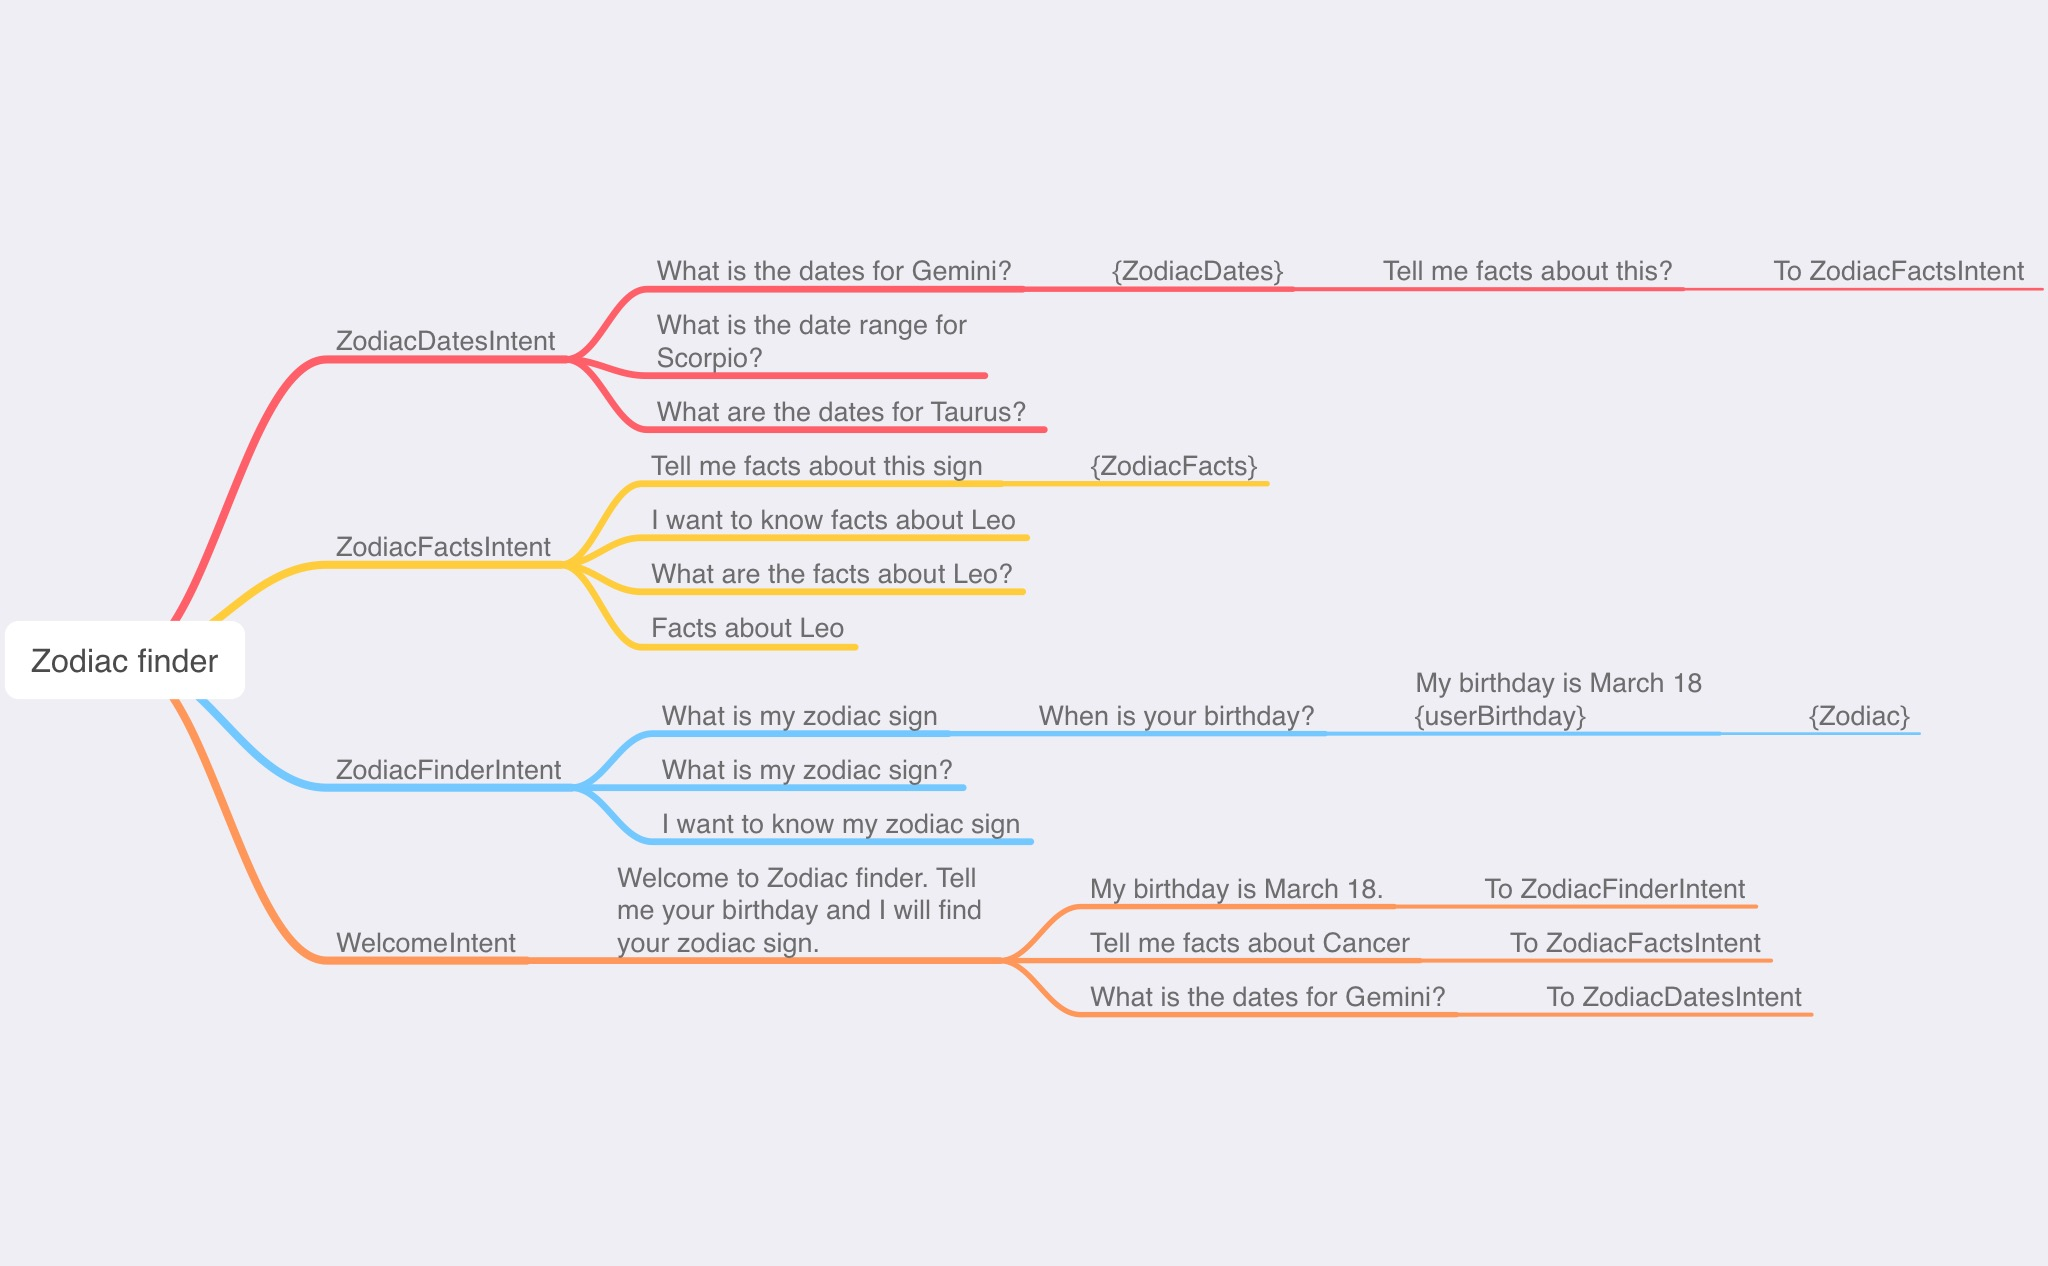
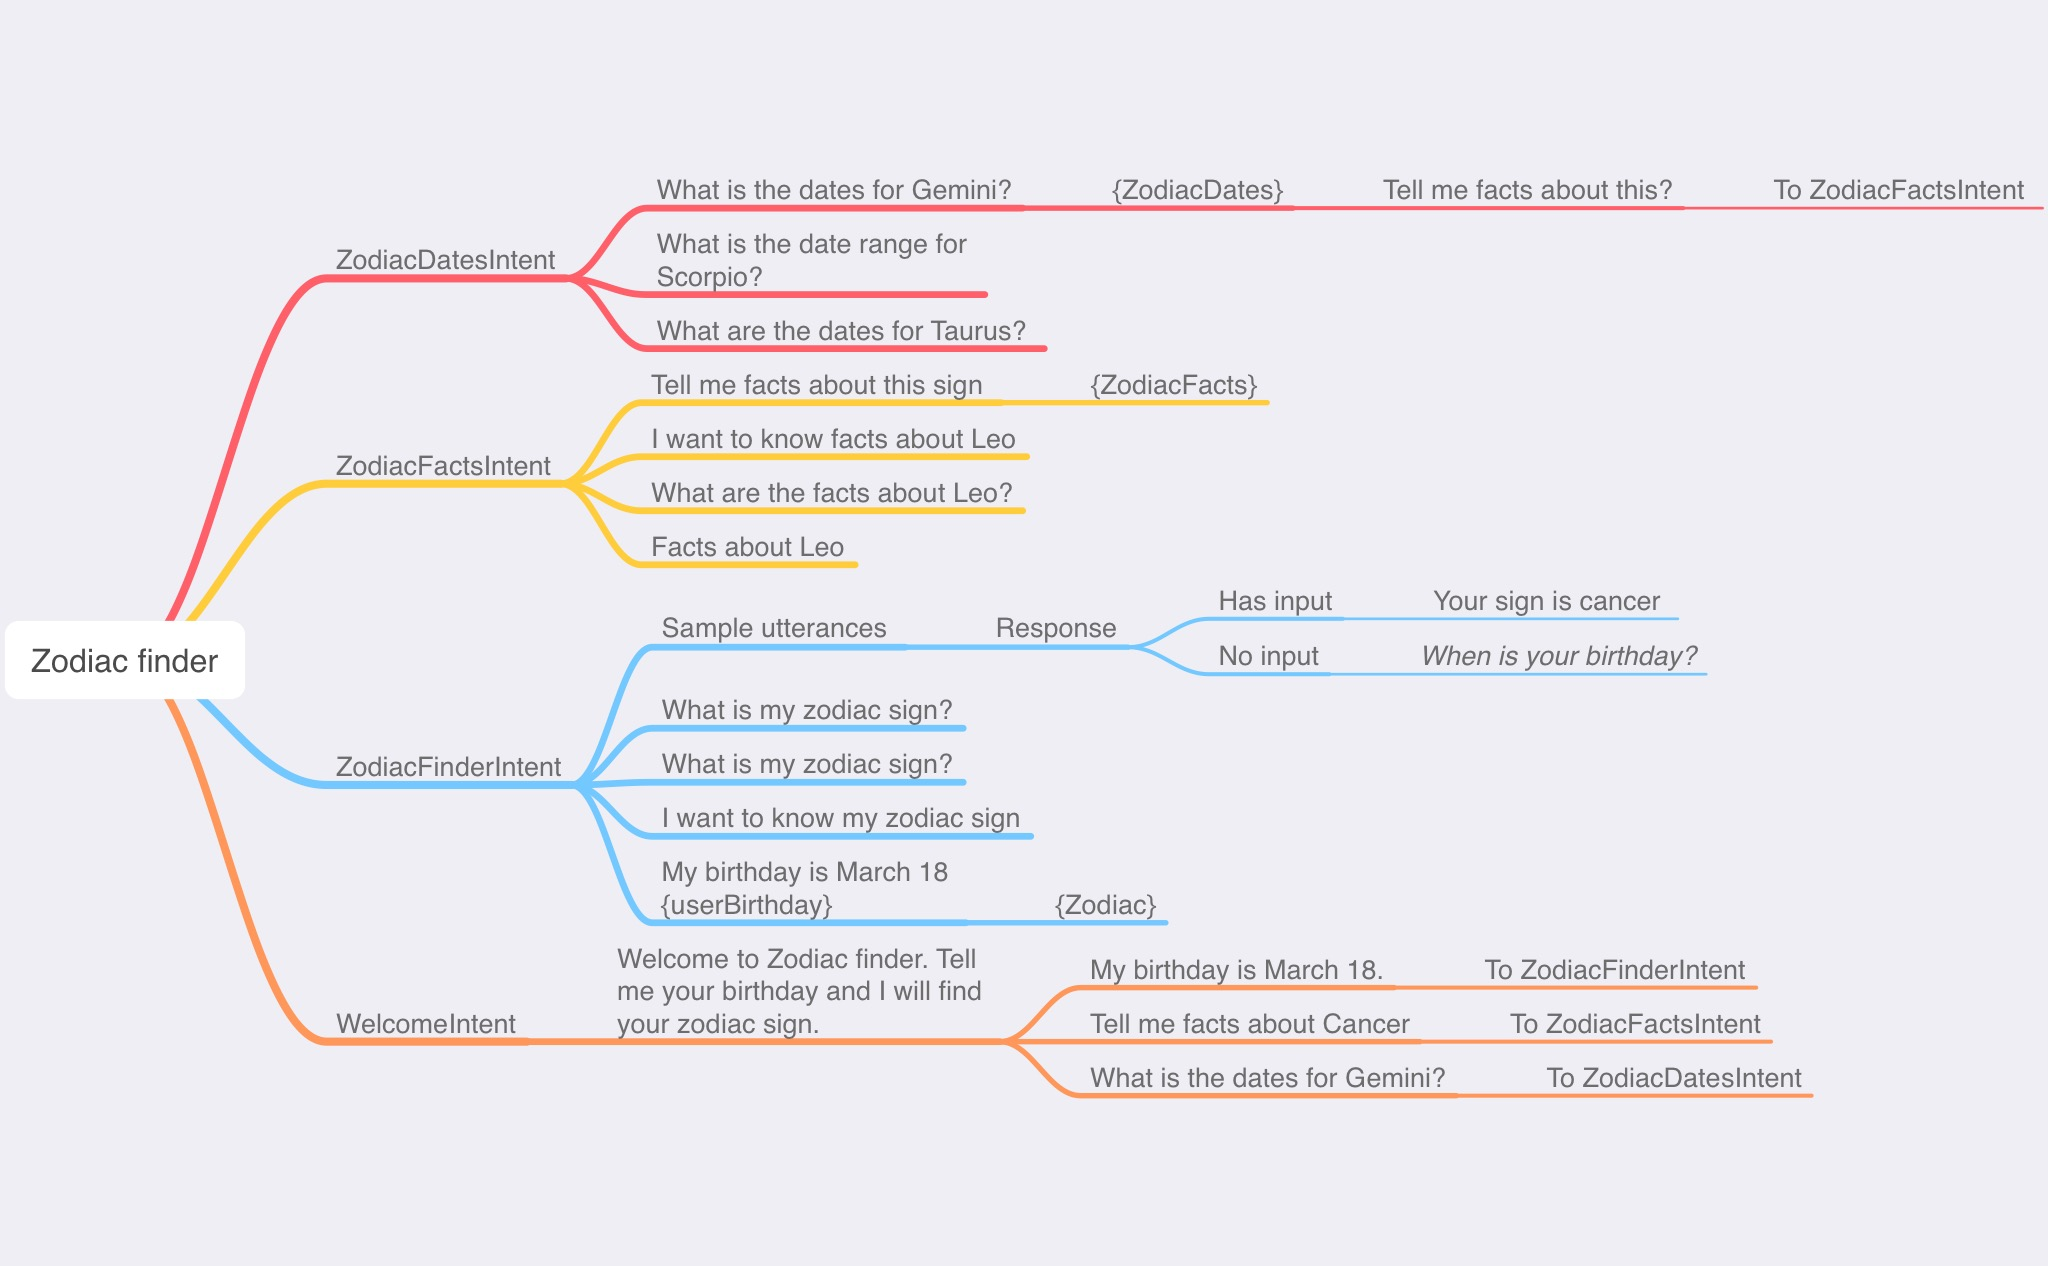
fixed Dates and Facts Intent, checking edge cases on finder intent

Changed region(s): [[0.0625, 0.1232, 1.0, 0.8934], [0.875, 0.5545, 0.9375, 0.5853]]

diff --git a/src/app.js b/src/app.js
@@ -24,7 +24,7 @@ app.use(
 // APP LOGIC
 // ------------------------------------------------------------------
 
-const zodiac = {"Aries":{"startDate":"2020-03-21","endDate":"2020-04-19","description":"Aries is bold and ambitious, dives headfirst into even the most challenging situations. Aries loves to be number one. Aries is a passionate, motivated, and confident leader who builds community with their cheerful disposition and relentless determination."},"Taurus":{"startDate":"2020-04-20","endDate":"2020-05-20","description":"Represented by the bull, Taurus is an earth sign. Taureans loves relaxing in peace, rural environments surrounded by soft sounds, soothing aromas, and succulent flavors. At the same time, Taurus are not afraid to work hard for their goals."},"Gemini":{"startDate":"2020-05-21","endDate":"2020-06-20","description":"Gemini is an air sign that they make themselves be exhausted by chasing their personal achievement. They’re often falsely misrepresented as two-faced. Playful and intellectually curious, Gemini is constantly juggling a variety of passions, hobbies, careers, and friend groups"},"Cancer":{"startDate":"2020-06-21","endDate":"2020-07-22","description":"Cancer is a cardinal water sign, represented by the crab. Their biggest strength is the ability to exist in both emotional and material realms. At first, they might be perceived as cold or distant, with time, they will reveal their gentle nature, genuine compassion, and mystical capabilities."},"Leo":{"startDate":"2020-07-23","endDate":"2020-08-22","description":"Leo is represented by the lion and these spirited fire signs are the king and queens of the celestial jungle. They’re delighted to embrace their royal status: Vivacious theatrical, and passionate, Leos love to bask in the spotlight and celebrate themselves."},"Virgo":{"startDate":"2020-08-23","endDate":"2020-09-22","description":"Virgo is an earth sign represented by the goddess of wheat and agriculture. Virgos are logical, practical, and systematic in their approach to life. They are perfectionist at heart and isn’t afraid to improve skills through diligent and consistent practice. They are hyper-aware of every detail."},"Libra":{"startDate":"2020-09-23","endDate":"2020-10-22","description":"Libra is an air sign represented by the scales, the only inanimate object of the zodiac. Libra is obsessed with symmetry and strives to create equilibrium in all areas of life. They are the aesthetes of the zodiac: the planet that governs love, beauty, money, and intellectualism connoisseurship."},"Scorpio":{"startDate":"2020-10-23","endDate":"2020-11-21","description":"Scorpio is a water sign that derives its strength from the psychic, emotional realm. They are incredibly passion and power. Life is a game of chess for these calculating water signs, who are constantly plotting several steps ahead in order to orchestrate an eventual checkmate."},"Sagittarius":{"startDate":"2020-11-22","endDate":"2020-12-21","description":"Sagittarians are always knowledgable. Sagittarius launches its many pursuits like blazing arrows, chasing after geographical, intellectual, and spiritual adventures. Sagittarius easily attract friends and lovers with their sense of humor."},"Capicorn":{"startDate":"2020-12-22","endDate":"2020-01-19","description":"The last earth sign of the zodiac. Capricorn is represented by the sea goat. They are skilled at navigating both the material and emotional realms. Capicorns tap into their inner fortitude to overcome whatever stands between them and their long-term goals."},"Aquarius":{"startDate":"2020-01-20","endDate":"2020-02-18","description":"The last air sign of the zodiac. Aquarius is represented by the water bearer. Aquarius are revolutionary thinkers, who aspire to change the world through radical social progress. They are rebels at heart, free-spirited and eccentric."},"Pisces":{"startDate":"2020-02-19","endDate":"2020-03-20","description":"The last constellation of the zodiac. It’s symbolized by two fish swimming in opposite directions. Pisces has absorbed every lesson including joys and pains, hopes and fears. This makes them the mostx psychic, empathetic, and compassionate creatures."}}
+const zodiac = { "Aries": { "startDate": "2020-03-21", "endDate": "2020-04-19", "description": "Aries is bold and ambitious, dives headfirst into even the most challenging situations. Aries loves to be number one. Aries is a passionate, motivated, and confident leader who builds community with their cheerful disposition and relentless determination." }, "Taurus": { "startDate": "2020-04-20", "endDate": "2020-05-20", "description": "Represented by the bull, Taurus is an earth sign. Taureans loves relaxing in peace, rural environments surrounded by soft sounds, soothing aromas, and succulent flavors. At the same time, Taurus are not afraid to work hard for their goals." }, "Gemini": { "startDate": "2020-05-21", "endDate": "2020-06-20", "description": "Gemini is an air sign that they make themselves be exhausted by chasing their personal achievement. They’re often falsely misrepresented as two-faced. Playful and intellectually curious, Gemini is constantly juggling a variety of passions, hobbies, careers, and friend groups" }, "Cancer": { "startDate": "2020-06-21", "endDate": "2020-07-22", "description": "Cancer is a cardinal water sign, represented by the crab. Their biggest strength is the ability to exist in both emotional and material realms. At first, they might be perceived as cold or distant, with time, they will reveal their gentle nature, genuine compassion, and mystical capabilities." }, "Leo": { "startDate": "2020-07-23", "endDate": "2020-08-22", "description": "Leo is represented by the lion and these spirited fire signs are the king and queens of the celestial jungle. They’re delighted to embrace their royal status: Vivacious theatrical, and passionate, Leos love to bask in the spotlight and celebrate themselves." }, "Virgo": { "startDate": "2020-08-23", "endDate": "2020-09-22", "description": "Virgo is an earth sign represented by the goddess of wheat and agriculture. Virgos are logical, practical, and systematic in their approach to life. They are perfectionist at heart and isn’t afraid to improve skills through diligent and consistent practice. They are hyper-aware of every detail." }, "Libra": { "startDate": "2020-09-23", "endDate": "2020-10-22", "description": "Libra is an air sign represented by the scales, the only inanimate object of the zodiac. Libra is obsessed with symmetry and strives to create equilibrium in all areas of life. They are the aesthetes of the zodiac: the planet that governs love, beauty, money, and intellectualism connoisseurship." }, "Scorpio": { "startDate": "2020-10-23", "endDate": "2020-11-21", "description": "Scorpio is a water sign that derives its strength from the psychic, emotional realm. They are incredibly passion and power. Life is a game of chess for these calculating water signs, who are constantly plotting several steps ahead in order to orchestrate an eventual checkmate." }, "Sagittarius": { "startDate": "2020-11-22", "endDate": "2020-12-21", "description": "Sagittarians are always knowledgable. Sagittarius launches its many pursuits like blazing arrows, chasing after geographical, intellectual, and spiritual adventures. Sagittarius easily attract friends and lovers with their sense of humor." }, "Capicorn": { "startDate": "2020-12-22", "endDate": "2021-01-19", "description": "The last earth sign of the zodiac. Capricorn is represented by the sea goat. They are skilled at navigating both the material and emotional realms. Capicorns tap into their inner fortitude to overcome whatever stands between them and their long-term goals." }, "Aquarius": { "startDate": "2020-01-20", "endDate": "2020-02-18", "description": "The last air sign of the zodiac. Aquarius is represented by the water bearer. Aquarius are revolutionary thinkers, who aspire to change the world through radical social progress. They are rebels at heart, free-spirited and eccentric." }, "Pisces": { "startDate": "2020-02-19", "endDate": "2020-03-20", "description": "The last constellation of the zodiac. It’s symbolized by two fish swimming in opposite directions. Pisces has absorbed every lesson including joys and pains, hopes and fears. This makes them the mostx psychic, empathetic, and compassionate creatures." } }
 
 app.setHandler({
     LAUNCH() {
@@ -35,7 +35,7 @@ app.setHandler({
     WelcomeIntent() {
         const welcomeMsg = ["Welcome to Zodiac Finder!", "Hello! Welcome to Zodiac Finder", "Hello! This is Zodiac Finder", "Hi! I am a Zodiac Finder"]
         const introMsg = ["I can tell date range of zodiac signs, what your zodiac sign is and facts about it.", "Tell me your birthday and I can tell your zodiac sign."]
-        
+
         this.$speech.addText(welcomeMsg).addBreak("300ms").addText(introMsg)
 
         // add image card
@@ -47,58 +47,55 @@ app.setHandler({
     },
 
     ZodiacDatesIntent() {
-        let userSign = this.$inputs.zodiacSign.value   
-        if (zodiac[userSign] !=null){
+        let userSign = ''
+        if (this.$inputs.zodiacSign != null) {
+            userSign = this.$inputs.zodiacSign.value
+        }
+
+        if (userSign == "") {
+            userSign = this.$session.$data.zodiacSignContext
+        } else {
+            this.ask("Error")
+        }
+        this.$session.$data.zodiacSignContextDates = userSign
+        // let userSign = this.$inputs.zodiacSign.value   
+        if (zodiac[userSign] != null) {
             let start = moment(zodiac[userSign].startDate).format("MMMM Do")
             let end = moment(zodiac[userSign].endDate).format("MMMM Do")
-            this.$speech.addText(userSign + " is from " + start + " to " + end)
-        }     
-        this.tell(this.$speech);
+            this.$speech.addText(userSign + " is from " + start)
+            this.$speech.addBreak("400ms")
+            this.$speech.addText(" to " + end)
+        }
+        this.ask(this.$speech);
     },
 
     ZodiacFactsIntent() {
-        let userSign = this.$inputs.zodiacSign.value
-        if (userSign === "Aries"){
-            return this.tell(zodiac.Aries.description)
-        }
-        else if (userSign === "Taurus"){
-            return this.tell(zodiac.Taurus.description)
-        }
-        else if (userSign === "Gemini"){
-            return this.tell(zodiac.Gemini.description)
-        }
-        else if (userSign === "Cancer"){
-            return this.tell(zodiac.Cancer.description)
-        }
-        else if (userSign === "Leo"){
-            return this.tell(zodiac.Leo.description)
-        }
-        else if (userSign === "Virgo"){
-            return this.tell(zodiac.Virgo.description)
-        }
-        else if (userSign === "Libra"){
-            return this.tell(zodiac.Libra.description)
-        }
-        else if (userSign === "Scorpio"){
-            return this.tell(zodiac.Scorpio.description)
-        }
-        else if (userSign === "Sagittarius"){
-            return this.tell(zodiac.Sagittarius.description)
-        }
-        else if (userSign === "Capricorn"){
-            return this.tell(zodiac.Capricorn.description)
-        }
-        else if (userSign === "Aquarius"){
-            return this.tell(zodiac.Aquarius.description)
-        }
-        else if (userSign === "Pisces"){
-            return this.tell(zodiac.Pisces.description)
-        }
-        else{
-            return this.tell("Please tell me the sign.")
+        let userSign = ''
+        if (this.$inputs.zodiacSign.value != '') {
+            console.log(this.$inputs.zodiacSign)
+            userSign = this.$inputs.zodiacSign.value
+            console.log(userSign +  "if statement")
         }
 
-        // this.tell('Zodiac facts');
+        else if (userSign == '') {
+            userSign = this.$session.$data.zodiacSignContext
+            console.log(userSign +  "else if statement")
+
+        } else {
+            return this.ask("Error")
+        }
+
+        console.log(userSign + " user sign")
+
+        if (zodiac[userSign]) {
+            this.$session.$data.zodiacSignContext = userSign
+
+            return this.ask(zodiac[userSign].description)
+
+        }else{
+            return this.ask("Sorry I couldn't find that sign.")
+        }
+
     },
 
 
@@ -106,28 +103,31 @@ app.setHandler({
         let userBD = this.$inputs.birthday.value
         let m = moment(userBD)
         console.log(m)
-        console.log(m.year())
+        console.log("original year " + m.year())
         m.year(2020)
         console.log(m.year())
-
-        console.log(m)
+        if(m.month() == 1){
+            m.year() == 2021
+        }
+        console.log("after year " + m.year())
         for (var key in zodiac) {
             // had to switch these end date and start date for some reasons
-          let mStartDate = moment(zodiac[key].startDate);
-          let mEndDate = moment(zodiac[key].endDate);
+            let mStartDate = moment(zodiac[key].startDate);
+            let mEndDate = moment(zodiac[key].endDate);
 
-          let bool = m.isBetween(mStartDate,mEndDate)
-          console.log(bool)
-          if (bool) {
-            this.tell("Your sign is " + key)
-            break;
-          }else {
-            this.tell("Sorry! I can't find your sign")
-          }
-      
+            let bool = m.isBetween(mStartDate, mEndDate)
+
+            if (bool) {
+                this.$session.$data.zodiacSignContext = key
+                this.ask("Your sign is " + key)
+                break;
+            } else {
+                this.ask("Sorry! I can't find your sign")
+            }
+
         }
-      
-      }
+
+    }
 
 
 
